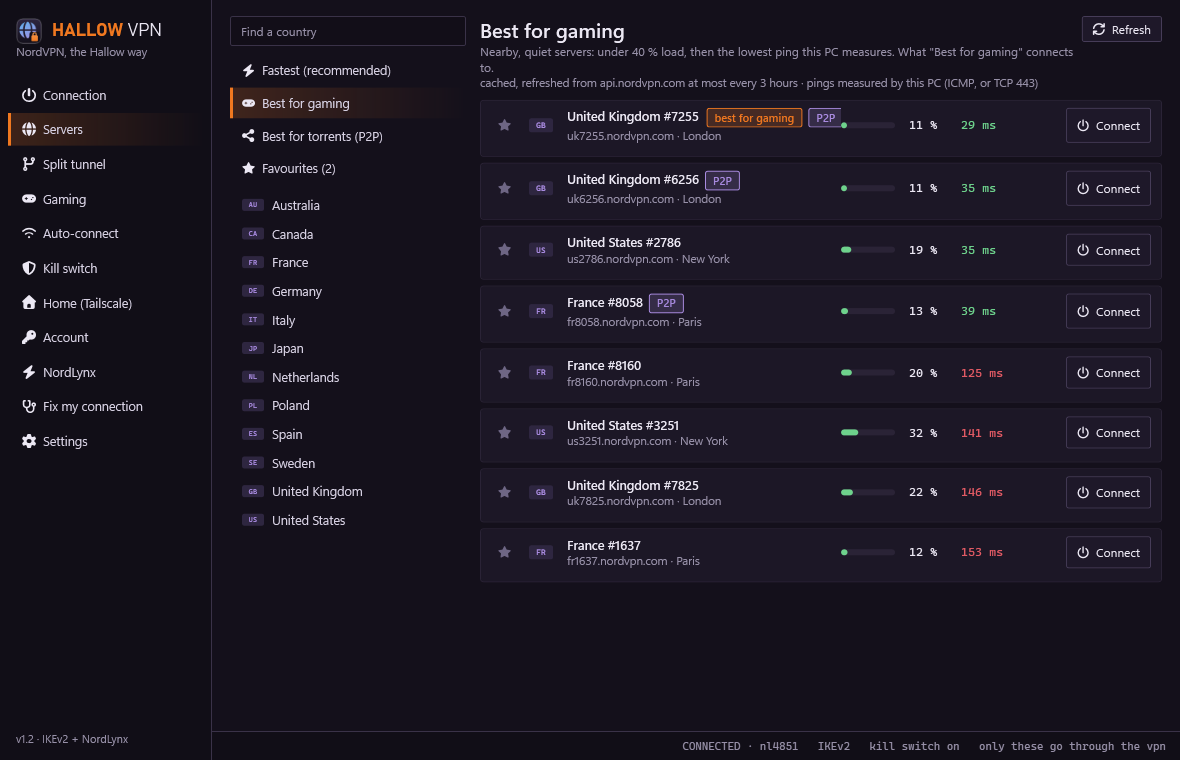
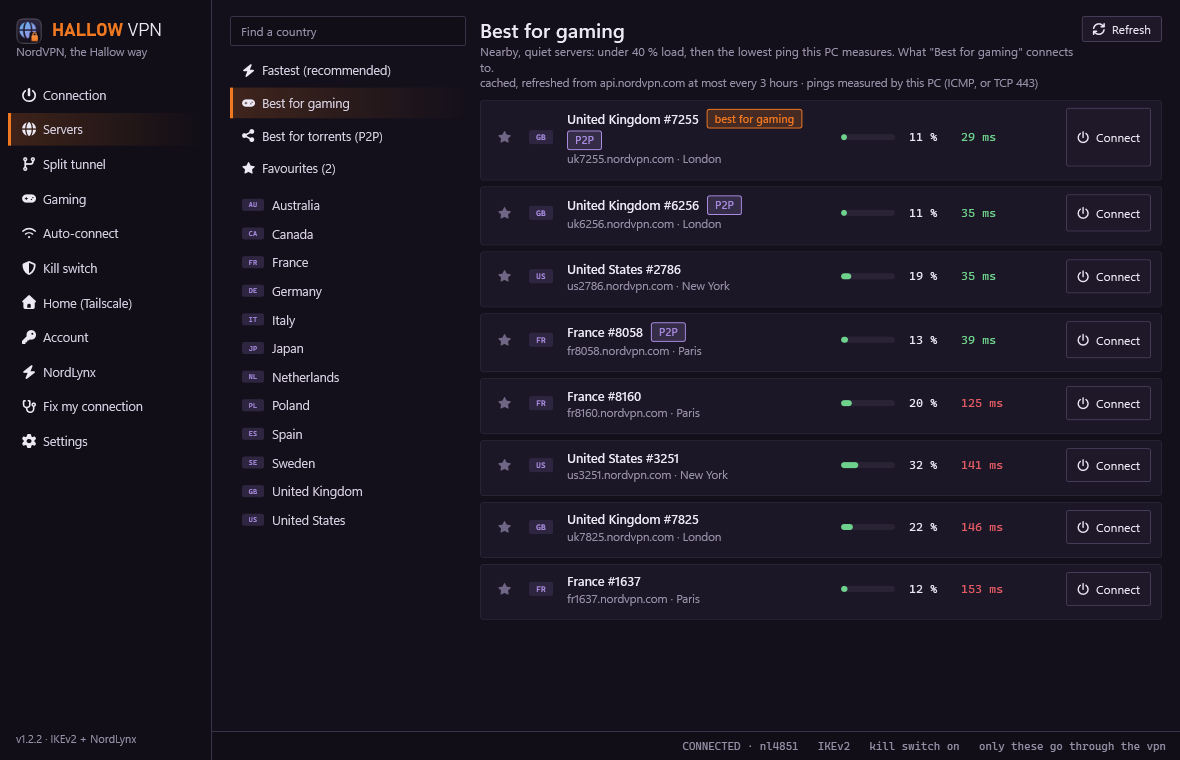
Hallow VPN 1.2.2: the first connect works (really)
The profile script reached PowerShell with a UTF-8 byte-order mark in front:
.NET Framework's Process.Start wraps stdin in an AutoFlush StreamWriter with
the console input encoding, which writes the BOM before anything else. So
"$ErrorActionPreference" became an unknown command, the script never ran,
and the app showed "Windows couldn't set up the VPN profile:" with no
reason. Scripts now go through -EncodedCommand (they carry no credentials),
errors always have a reason, and tests run real PowerShell with harmless
scripts (they reproduced the bug before the fix). Checked against real
Windows on a throwaway entry.

Server rows wrap their badges instead of cutting them off.

diff --git a/src/Ras.cs b/src/Ras.cs
@@ -66,24 +66,40 @@ namespace HallowVPN
         {
             return "$ErrorActionPreference = 'Stop'\r\ntry { if (Get-VpnConnection -Name " + Q(Entry) + " -ErrorAction SilentlyContinue) { Remove-VpnConnection -Name " + Q(Entry) + " -Force }; 'ok'; exit 0 } catch { 'ERR ' + $_.Exception.Message; exit 1 }\r\n";
         }
-        // runs a script through powershell's standard input (never on its command line), hidden, at most 60 s
+        // runs a script (no credentials in it) with powershell -EncodedCommand, hidden, at most 60 s
         public static string Run(string script)
         {
             try
             {
-                var psi = new ProcessStartInfo("powershell.exe", "-NoProfile -NonInteractive -ExecutionPolicy Bypass -Command -") { UseShellExecute = false, CreateNoWindow = true, RedirectStandardInput = true, RedirectStandardOutput = true, RedirectStandardError = true };
+                // NOT through standard input: .NET Framework's Process.Start wraps stdin in a StreamWriter using the console input
+                // encoding with AutoFlush on, so on PCs where that is UTF-8 a byte-order mark is written before we write anything.
+                // PowerShell then reads "$ErrorActionPreference" as a command and the whole script fails - the 1.0-1.2.1 bug
+                // behind "Windows couldn't set up the VPN profile:". -EncodedCommand (UTF-16LE, base64) has no encoding to guess.
+                // These scripts carry no credentials (a test checks), so having them on the command line is fine.
+                var enc = Convert.ToBase64String(Encoding.Unicode.GetBytes(StripBom(script)));
+                var psi = new ProcessStartInfo("powershell.exe", "-NoProfile -NonInteractive -ExecutionPolicy Bypass -EncodedCommand " + enc) { UseShellExecute = false, CreateNoWindow = true, RedirectStandardOutput = true, RedirectStandardError = true };
                 using (var p = Process.Start(psi))
                 {
                     var o = p.StandardOutput.ReadToEndAsync(); var e = p.StandardError.ReadToEndAsync();
-                    p.StandardInput.Write(script); p.StandardInput.Close();
                     if (!p.WaitForExit(60000)) { try { p.Kill(); } catch { } return "Windows took too long to set up the VPN profile."; }
-                    var outText = (o.Result ?? "").Trim();
+                    var outText = StripBom(o.Result ?? "").Trim();
                     if (p.ExitCode == 0 && outText.EndsWith("ok")) return null;
-                    var line = outText.Split('\n').Select(x => x.Trim()).LastOrDefault(x => x.StartsWith("ERR ")) ?? (e.Result ?? "").Trim();
-                    return "Windows couldn't set up the VPN profile: " + Family.OneLine(line.StartsWith("ERR ") ? line.Substring(4) : line);
+                    return "Windows couldn't set up the VPN profile: " + Reason(outText, StripBom(e.Result ?? "").Trim(), p.ExitCode);
                 }
             }
             catch (Exception ex) { return "Couldn't run PowerShell to set up the VPN profile: " + ex.Message; }
+        }
+        public static string StripBom(string s) { return (s ?? "").Replace("", ""); }
+        // never an empty reason: the script's own ERR line, else PowerShell's first error line, else its last output, else the exit code
+        public static string Reason(string outText, string errText, int exitCode)
+        {
+            var ln = (outText ?? "").Split('\n').Select(x => x.Trim()).LastOrDefault(x => x.StartsWith("ERR "));
+            if (ln != null && ln.Length > 4) return Family.OneLine(ln.Substring(4));
+            var err = (errText ?? "").Split('\n').Select(x => x.Trim()).FirstOrDefault(x => x.Length > 0 && !x.StartsWith("#< CLIXML") && !x.StartsWith("<"));
+            if (err != null) return Family.OneLine(err);
+            var last = (outText ?? "").Split('\n').Select(x => x.Trim()).LastOrDefault(x => x.Length > 0);
+            if (last != null) return Family.OneLine(last);
+            return "PowerShell stopped with exit code " + exitCode + " and gave no reason.";
         }
     }
 

diff --git a/tests/VpnTests.cs b/tests/VpnTests.cs
@@ -142,6 +142,14 @@ namespace HallowVPN.Tests
             Ok(!p.Contains("AllUserConnection"), "profile: per-user (never -AllUserConnection, so no admin)");
             Ok(p.Contains("-TunnelType Ikev2") && p.Contains("-AuthenticationMethod Eap") && p.Contains("-EncryptionLevel Required") && p.Contains("-RememberCredential:$false"), "profile: IKEv2, EAP, encryption required, Windows doesn't keep the credentials");
             Ok(!Regex.IsMatch(p, @"-(SplitTunneling|RememberCredential|Force|PassThru|AllUserConnection|UseWinlogonCredential) \$"), "profile: switches written -Switch:$value (with a space PowerShell binds the value to another parameter and Windows refuses the profile)");
+            // real PowerShell through VpnScript.Run with harmless scripts (nothing on the system changes): the first line must
+            // survive (a byte-order mark on stdin broke "$ErrorActionPreference" in 1.0-1.2.1), and a failure always has a reason
+            var harmless = "$ErrorActionPreference = 'Stop'\r\ntry {\r\n  $x = 1\r\n  'ok'; exit 0\r\n} catch { 'ERR ' + $_.Exception.Message; exit 1 }\r\n";
+            Ok(VpnScript.Run(harmless) == null, "Run: a multi-line script starting with $ErrorActionPreference runs in real PowerShell (no BOM on stdin)");
+            Ok(VpnScript.Run("" + harmless) == null, "Run: a byte-order mark in the script is removed before PowerShell sees it");
+            var failing = VpnScript.Run("$ErrorActionPreference = 'Stop'\r\ntry {\r\n  throw 'made-up failure'\r\n} catch { 'ERR ' + $_.Exception.Message; exit 1 }\r\n");
+            Ok(failing != null && failing.Contains("made-up failure"), "Run: the script's own error reaches the app (" + failing + ")");
+            Ok(VpnScript.Reason("", "", 5).Contains("exit code 5") && VpnScript.Reason("", "#< CLIXML\r\nboom", 1) == "boom" && VpnScript.Reason("x\nERR bad", "", 1) == "bad", "Reason: never empty (ERR line, then stderr, then output, then the exit code)");
             Ok(p.Contains("-SplitTunneling:$split") && p.Split(new[] { "-SplitTunneling:$split" }, StringSplitOptions.None).Length == 3, "profile: both Add- and Set-VpnConnection pass split tunnelling as a switch value");
             Ok(p.Contains("'Hallow VPN'") && p.Contains("-ServerAddress 'nl1234.nordvpn.com'") && p.Contains("$split = $true"), "profile: name, server, split tunnelling");
             Ok(p.Contains("Add-VpnConnectionRoute -ConnectionName $n -DestinationPrefix '203.0.113.0/24'") && p.Contains("'2001:db8::/32'") && p.Contains("Remove-VpnConnectionRoute"), "profile: old routes out, new routes in");

diff --git a/src/MainWindow.cs b/src/MainWindow.cs
@@ -417,10 +417,11 @@ namespace HallowVPN
             g.Children.Add(star);
             var tile = Ui.CountryTile(s.Code, 18); Grid.SetColumn(tile, 1); g.Children.Add(tile);
             var name = new StackPanel { VerticalAlignment = VerticalAlignment.Center, Margin = new Thickness(6, 0, 0, 0) };
-            var nl = new StackPanel { Orientation = Orientation.Horizontal };
-            nl.Children.Add(new TextBlock { Text = s.Name ?? s.Host, FontWeight = FontWeights.SemiBold });
-            if (best) { var p = Ui.Pill(sel == "gaming" ? "best for gaming" : sel == "p2p" ? "best for torrents" : "fastest", "AccentBrush", "AccentGlow"); p.Margin = new Thickness(8, 0, 0, 0); nl.Children.Add(p); }
-            if (s.P2P && sel != "p2p") { var p = Ui.Pill("P2P", "Lilac", "LilacBg"); p.Margin = new Thickness(6, 0, 0, 0); nl.Children.Add(p); }
+            // a WrapPanel, not a horizontal StackPanel: on a narrower window the pills move to the next line instead of being cut off
+            var nl = new WrapPanel { Orientation = Orientation.Horizontal };
+            nl.Children.Add(new TextBlock { Text = s.Name ?? s.Host, FontWeight = FontWeights.SemiBold, Margin = new Thickness(0, 1, 8, 1), VerticalAlignment = VerticalAlignment.Center });
+            if (best) { var p = Ui.Pill(sel == "gaming" ? "best for gaming" : sel == "p2p" ? "best for torrents" : "fastest", "AccentBrush", "AccentGlow"); p.Margin = new Thickness(0, 1, 6, 1); nl.Children.Add(p); }
+            if (s.P2P && sel != "p2p") { var p = Ui.Pill("P2P", "Lilac", "LilacBg"); p.Margin = new Thickness(0, 1, 6, 1); nl.Children.Add(p); }
             name.Children.Add(nl);
             name.Children.Add(Ui.Muted(s.Host + (s.City != null ? " · " + s.City : ""), 11.5));
             Grid.SetColumn(name, 2); g.Children.Add(name);

diff --git a/src/App.cs b/src/App.cs
@@ -20,14 +20,14 @@ using WF = System.Windows.Forms;
 [assembly: AssemblyTitle("Hallow VPN")]
 [assembly: AssemblyProduct("Hallow VPN")]
 [assembly: AssemblyDescription("A game-aware VPN client for NordVPN on Windows' built-in IKEv2")]
-[assembly: AssemblyVersion("1.2.1.0")]
-[assembly: AssemblyFileVersion("1.2.1.0")]
+[assembly: AssemblyVersion("1.2.2.0")]
+[assembly: AssemblyFileVersion("1.2.2.0")]
 
 namespace HallowVPN
 {
     public static class Program
     {
-        public const string Version = "1.2.1";
+        public const string Version = "1.2.2";
         [DllImport("user32.dll")] static extern bool SetProcessDpiAwarenessContext(IntPtr v);
 
         [STAThread]

diff --git a/ROADMAP.md b/ROADMAP.md
@@ -8,6 +8,7 @@
 | 1.1 | First connect just works, and nothing leaks. First-run setup (credentials, NordVPN root certificate with the Install button, Test connection to Fastest - ticks or plain fixes; opens until the first successful connect, also from Settings). Fix my connection: read-only checks in order (credentials, certificate, the profile against what's expected, server resolves + ping, Windows' last error explained, Tailscale exit node / kill switch in the way) and no-admin repairs (recreate the per-user profile, refresh servers); `diagnose` on the pipe. DNS leak protection without admin: only the "Hallow VPN" entry of the per-user rasphone.pbk gets NordVPN's DNS (103.86.96.100, 103.86.99.100, IpNameAssign=2) and IpInterfaceMetric=1, backed up first and swapped in atomically (automatic DNS with "Only these"). Leak test while connected: Nord's IP check, the DNS servers Windows asks and their routes, IPv6 warning; real IP only on a click; status.json leakCheck + leakCheckAt (never IPs). Auto-connect page: at sign-in, on untrusted Wi-Fi (Native Wifi current connection; open Wi-Fi always untrusted; wired trusted by default), respects game mode and manual disconnects. Best for torrents: Nord's P2P group (legacy_p2p), `connect p2p`, status.json p2p. Health: bytes up / down (RasGetConnectionStatistics), live ping, slow-server hint; every 2 s at most, only on the Connection page and not minimised |
 | 1.2 | NordLynx next to IKEv2: Protocol choice (Automatic / NordLynx / IKEv2). WireGuard for Windows detected; Install button downloads the official MSI from download.wireguard.com on click, checks its BLAKE2b-256 against WireGuard's latest.sig and its Authenticode signer (WireGuard LLC), then msiexec (UAC). Access token -> nordlynx_private_key from Nord's credentials endpoint (basic auth token:...), DPAPI CurrentUser in nordlynx.dat, never logged / in status / crash reports / command lines. Server public keys from the server list's wireguard_udp metadata; .conf 10.5.0.2/32, Nord's DNS, <station>:51820, AllowedIPs 0/0 + ::/0. Connect / disconnect via wireguard.exe /installtunnelservice / /uninstalltunnelservice in an elevated copy (UAC each time) that writes the .conf to a user/SYSTEM/Administrators-only folder and deletes it once the tunnel runs. status.json protocol NordLynx + adapter HallowNordLynx (Hallow Torrents binds to it unchanged), protocolChoice; health, leak test, P2P and auto-connect for both; never a UAC prompt during a game (game modes off while NordLynx is up; Automatic uses IKEv2 for automatic connects). Kill switch v2 (16 rules, firewall only): DNS only to Nord's DNS, all public IPv6 blocked, UDP 51820 open, the tunnel address 10.5.0.2 exempt, UDP 500 / 4500 still open to any server; 1.0 rules detected -> Upgrade kill switch (one UAC). Uninstall removes the tunnel (UAC) and the download folder |
 | 1.2.1 | Fix: the profile script passed switches as `-SplitTunneling $split -RememberCredential $false`; PowerShell bound `$false` to another parameter and Windows refused the profile ("conflicting PPP Tunnel types"), so no first connect could dial. Now `-Switch:$value`; a test guards it (the fake VPN layer hid it). |
+| 1.2.2 | Fix: VpnScript.Run wrote the script through Process.StandardInput, whose writer added a UTF-8 byte-order mark (console input encoding on this PC), so PowerShell read `\uFEFF$ErrorActionPreference` as a command and the profile script never ran; the error text was empty. Server rows wrap their pills instead of cutting them off. Now `-EncodedCommand` (UTF-16LE base64; Process.Start writes the BOM itself with AutoFlush, so stdin can't be fixed; the scripts carry no credentials); `Reason` never returns an empty error. Tests run real PowerShell with harmless scripts. |
 
 ## Later
 
